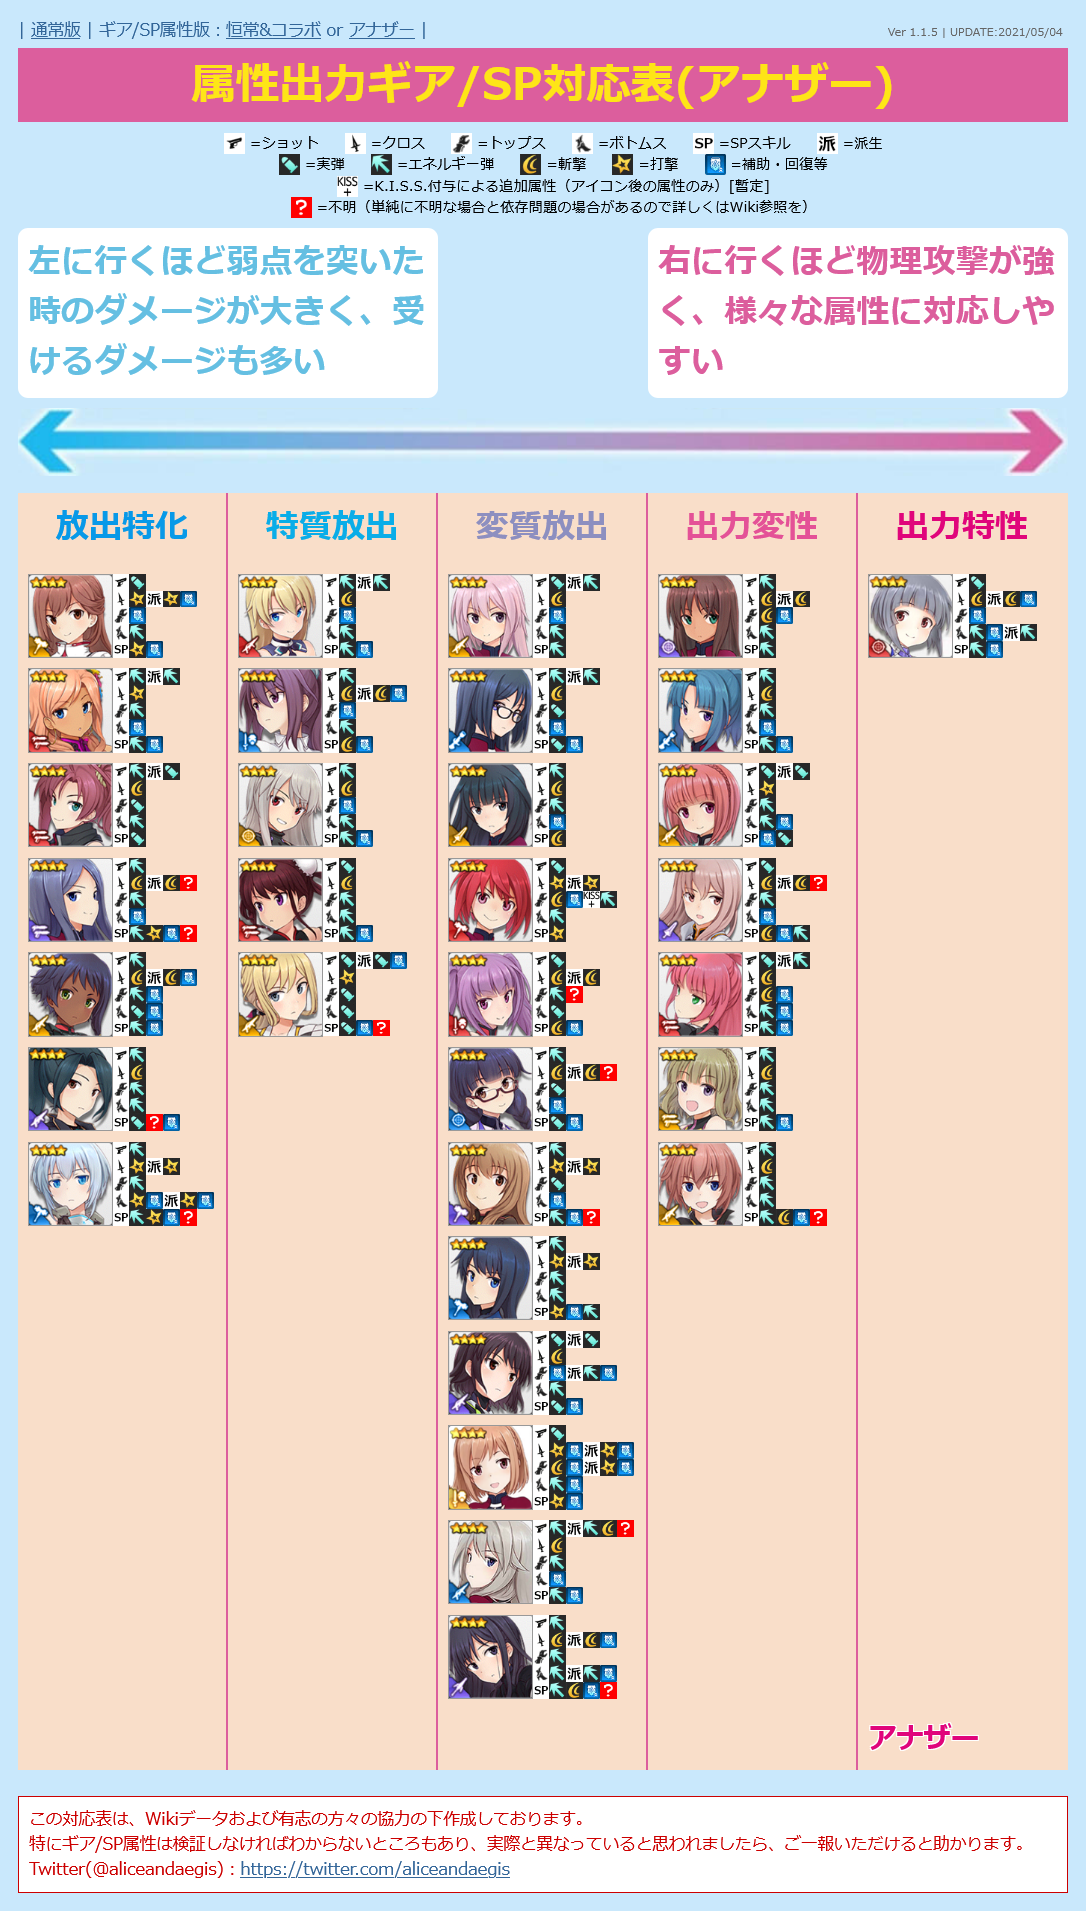
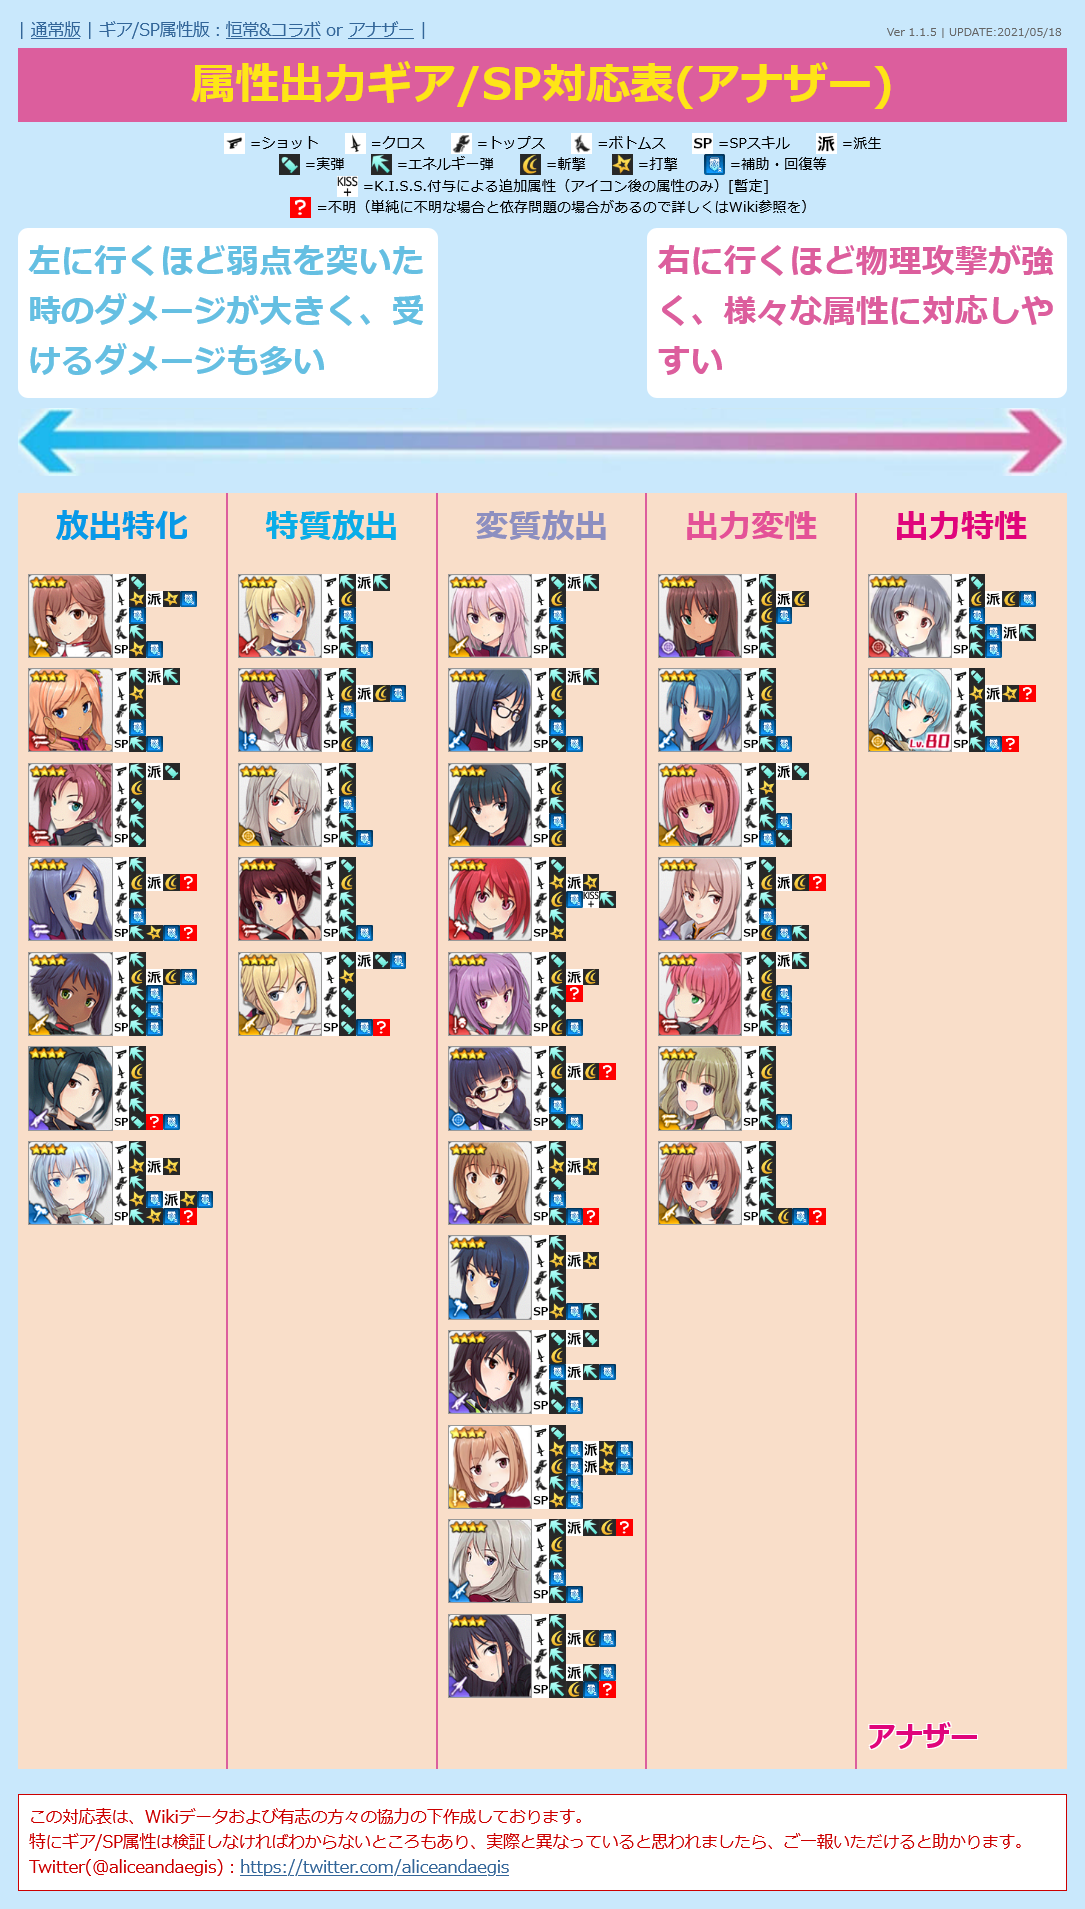
UPDATE charadata
・アナザー 金潟すぐみ/臥薪を追加

diff --git a/alice.html b/alice.html
@@ -12,7 +12,7 @@
   <script>
 
 /* 更新情報 必要に応じて書き換えてください */
-  var version = "Ver 1.1.5 | UPDATE:2021/05/04";
+  var version = "Ver 1.1.5 | UPDATE:2021/05/18";
 
 /*
   jsonファイルを外部に設置すると単にHTMLファイルを開いたときに動作しなくなるので当面はHTMLファイル内に
@@ -995,13 +995,27 @@
       "src": "normal-mirie.png",
       "name": "御茶ノ水 美里江",
       "equip1": "1",
-      "equip2": "4",
+      "equip2": "4/4?",
       "equip3": "2",
       "equip4": "2",
       "sp": "2",
       "attr": "1",
       "link": "https://wikiwiki.jp/alicegear/%E5%BE%A1%E8%8C%B6%E3%83%8E%E6%B0%B4%E7%BE%8E%E9%87%8C%E6%B1%9F",
       "category": ""
+    },
+    {
+      "id": "36",
+      "type": "5",
+      "src": "another-mirie.png",
+      "name": "御茶ノ水 美里江 / 無辜",
+      "equip1": "1",
+      "equip2": "4/4?",
+      "equip3": "2",
+      "equip4": "2",
+      "sp": "25?",
+      "attr": "1",
+      "link": "https://wikiwiki.jp/alicegear/%E5%BE%A1%E8%8C%B6%E3%83%8E%E6%B0%B4%E7%BE%8E%E9%87%8C%E6%B1%9F%E7%84%A1%E8%BE%9C",
+      "category": "10"
     },
     {
       "id": "37",
